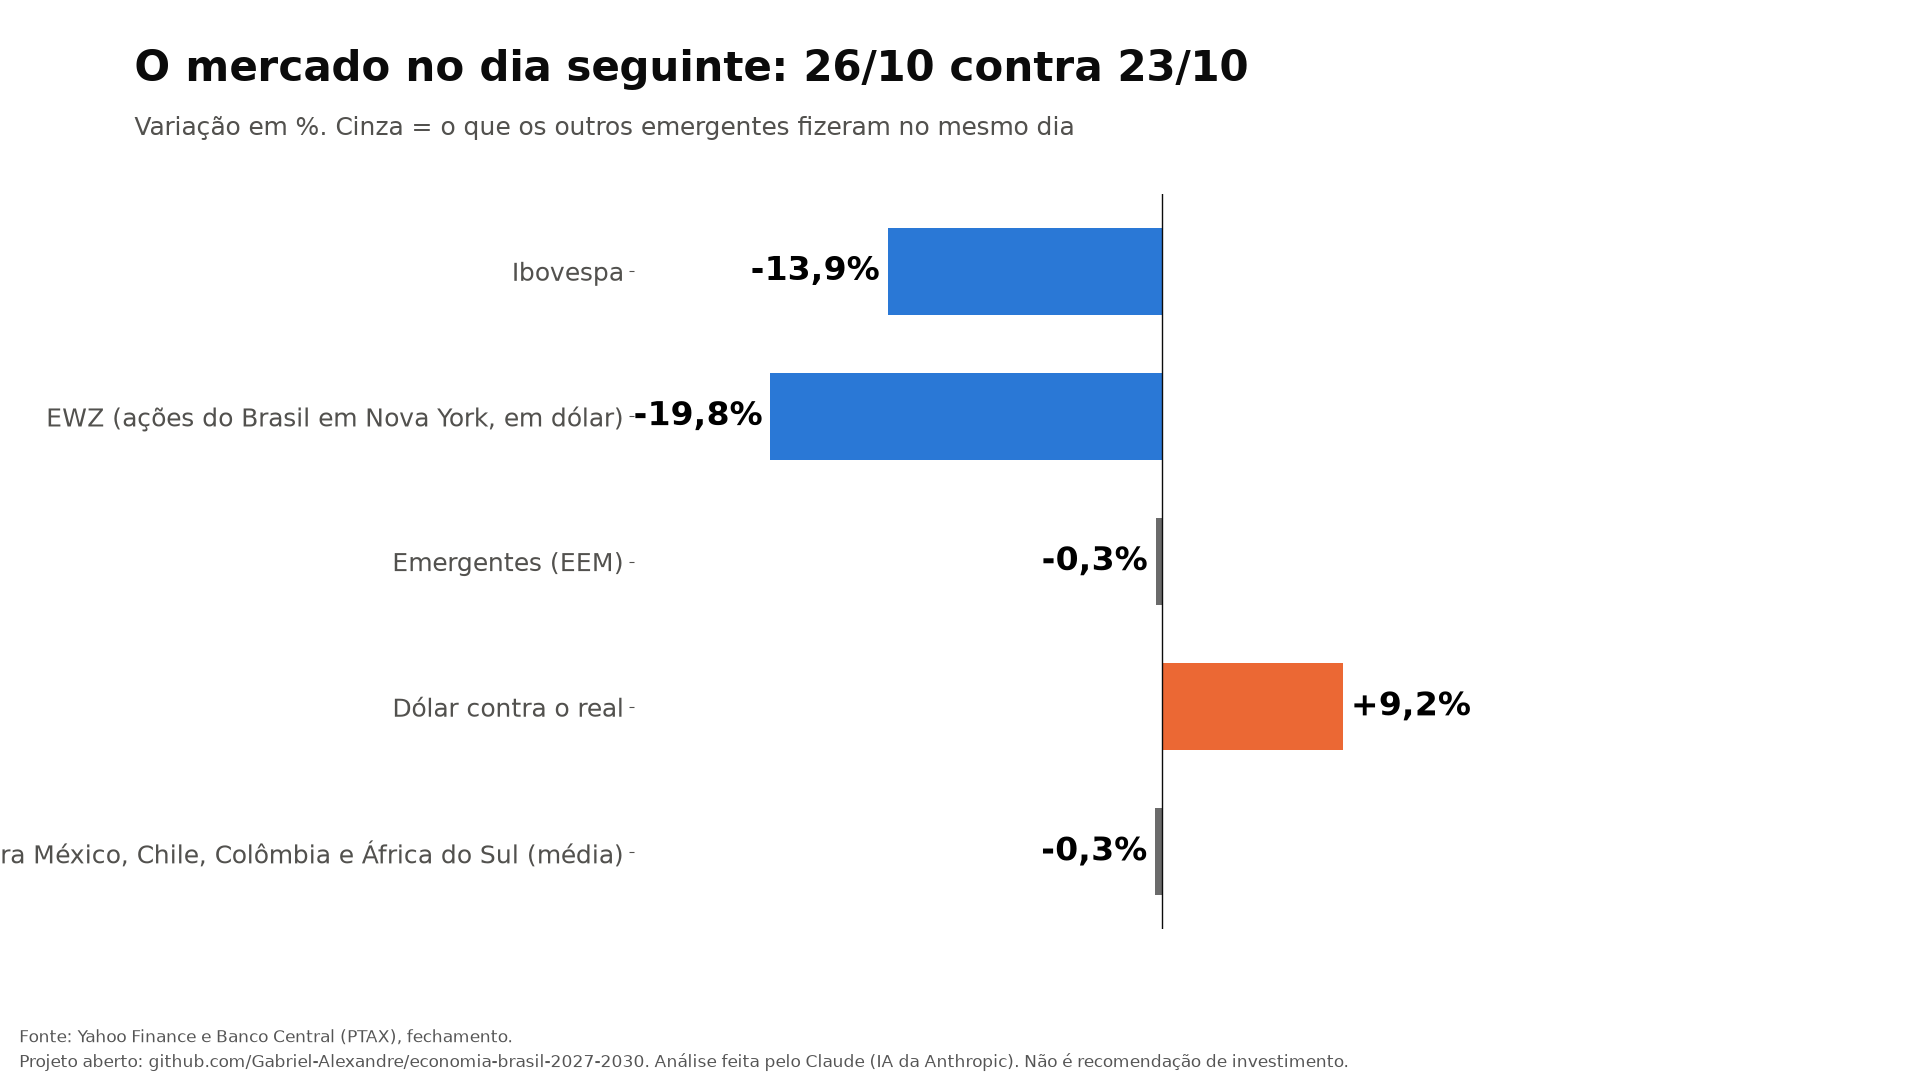
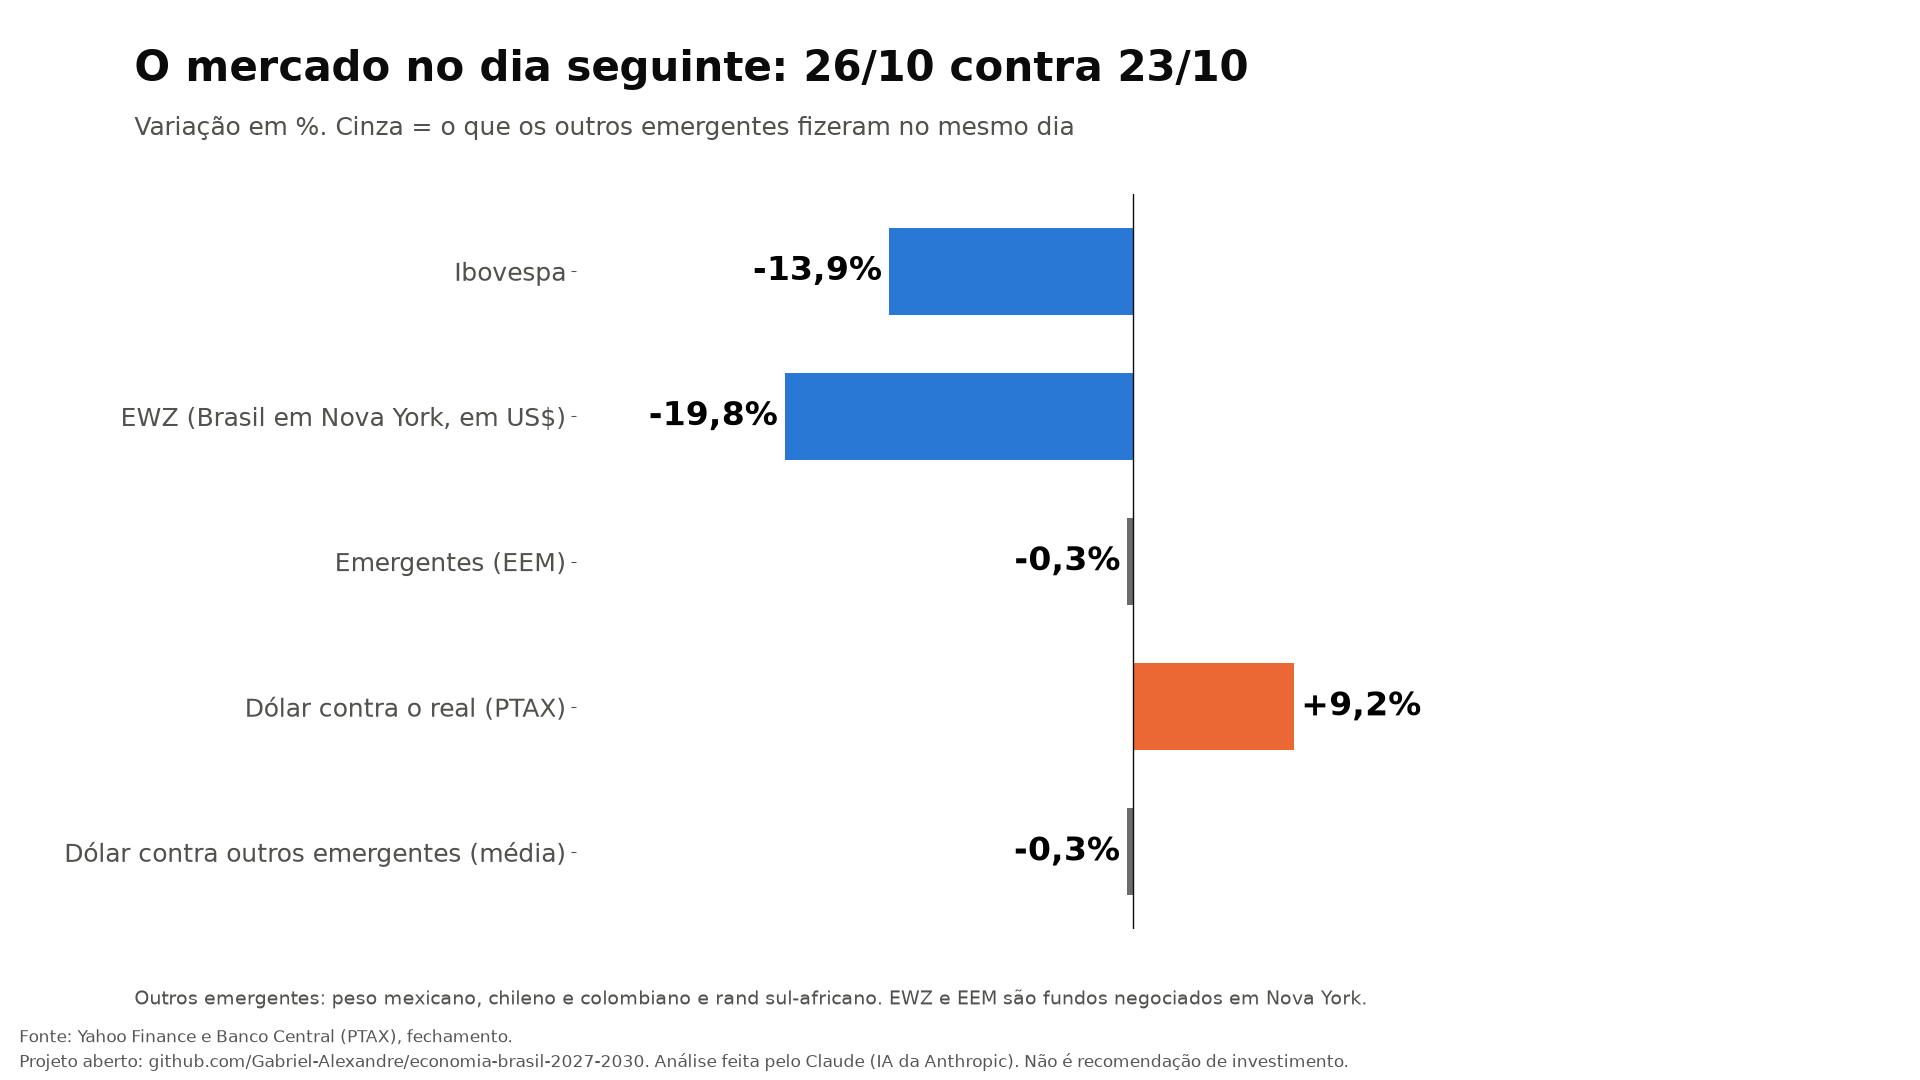
Gráfico do dia: rótulos

diff --git a/ferramentas/graficos.py b/ferramentas/graficos.py
@@ -254,9 +254,9 @@ def g01_mercado(r: dict) -> None:
     e = m.get("dia")
     if not e or not e.get("ibovespa"):
         return
-    itens = [("Ibovespa", e["ibovespa"]["variacao_pct"], AZUL), ("EWZ (ações do Brasil em Nova York, em dólar)", e["ewz"]["variacao_pct"], AZUL),
-             ("Emergentes (EEM)", e["eem"]["variacao_pct"], CINZA), ("Dólar contra o real", e["usdbrl_ptax"]["variacao_pct"] if e.get("usdbrl_ptax") else e["usdbrl_yahoo"]["variacao_pct"], LARANJA),
-             ("Dólar contra México, Chile, Colômbia e África do Sul (média)", e["controle_moeda_pct"], CINZA)]
+    itens = [("Ibovespa", e["ibovespa"]["variacao_pct"], AZUL), ("EWZ (Brasil em Nova York, em US$)", e["ewz"]["variacao_pct"], AZUL),
+             ("Emergentes (EEM)", e["eem"]["variacao_pct"], CINZA), ("Dólar contra o real (PTAX)", e["usdbrl_ptax"]["variacao_pct"] if e.get("usdbrl_ptax") else e["usdbrl_yahoo"]["variacao_pct"], LARANJA),
+             ("Dólar contra outros emergentes (média)", e["controle_moeda_pct"], CINZA)]
     fig, ax = nova(f"O mercado no dia seguinte: {dt.date.fromisoformat(e['janela'][1]).strftime('%d/%m')} contra {dt.date.fromisoformat(e['janela'][0]).strftime('%d/%m')}",
                    "Yahoo Finance e Banco Central (PTAX), fechamento", "Variação em %. Cinza = o que os outros emergentes fizeram no mesmo dia")
     for i, (n, v, c) in enumerate(itens[::-1]):
@@ -265,12 +265,13 @@ def g01_mercado(r: dict) -> None:
     ax.axvline(0, color=TINTA, lw=1)
     ax.set_yticks(range(len(itens)))
     ax.set_yticklabels([n for n, _, _ in itens[::-1]], fontsize=18)
-    lim = max(abs(v) for _, v, _ in itens) * 1.35
+    lim = max(abs(v) for _, v, _ in itens) * 1.6
     ax.set_xlim(-lim, lim)
     ax.set_xticks([])
     ax.spines["bottom"].set_visible(False)
     ax.spines["left"].set_visible(False)
-    fig.subplots_adjust(left=0.33)
+    fig.subplots_adjust(left=0.30)
+    fig.text(0.07, 0.07, "Outros emergentes: peso mexicano, chileno e colombiano e rand sul-africano. EWZ e EEM são fundos negociados em Nova York.", fontsize=14, color=TINTA2)
     salvar(fig, "g01_mercado_no_dia.png")
 
 
